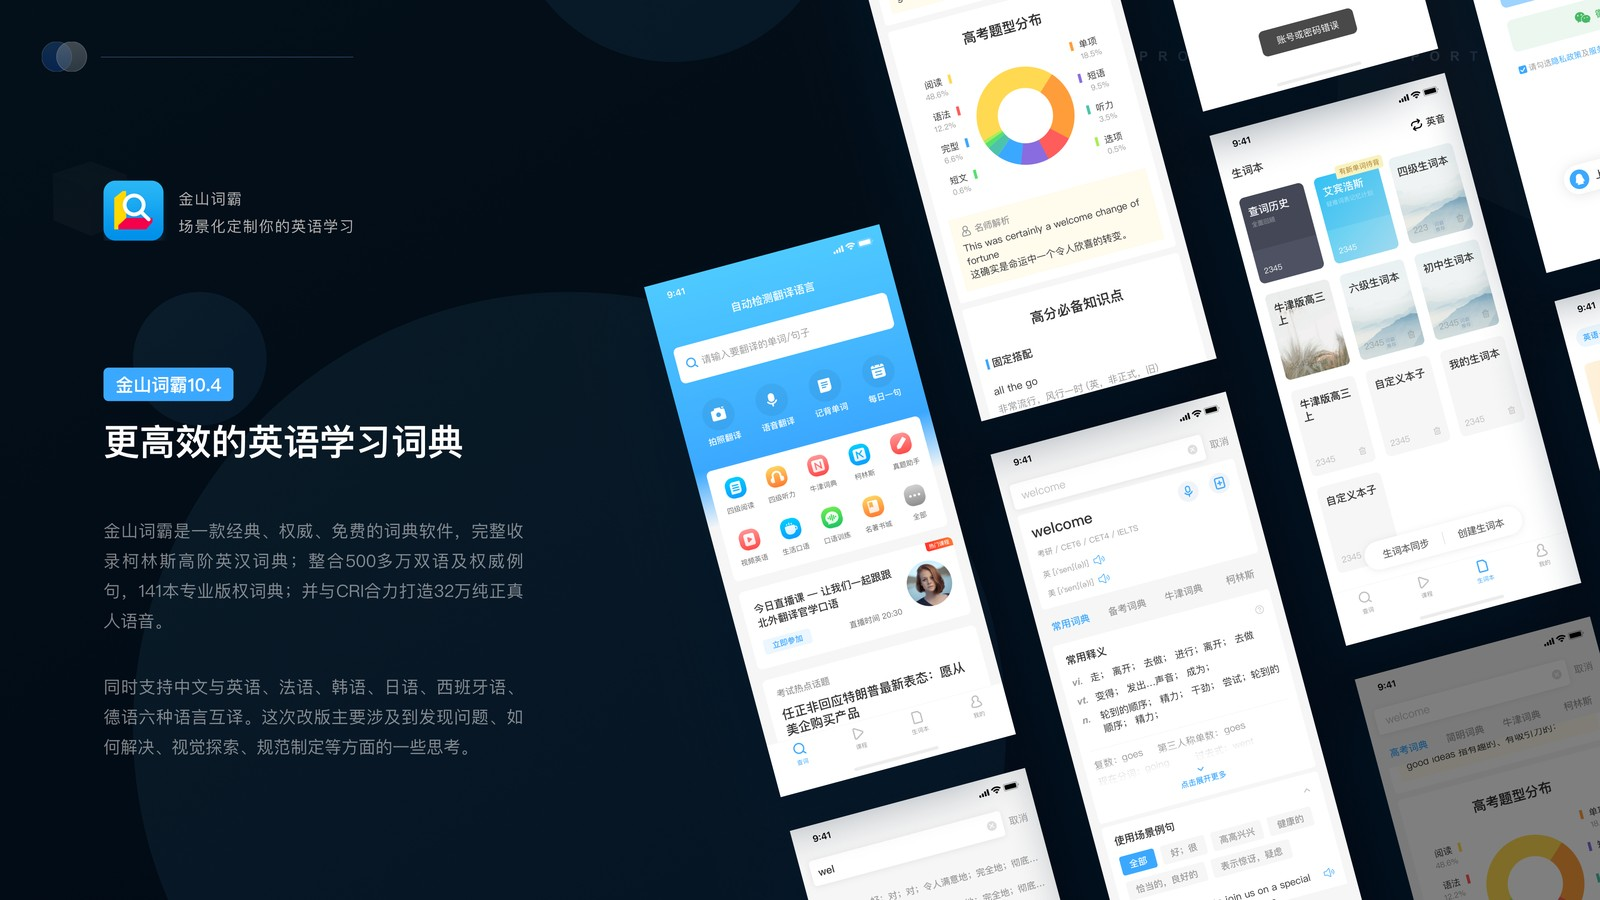
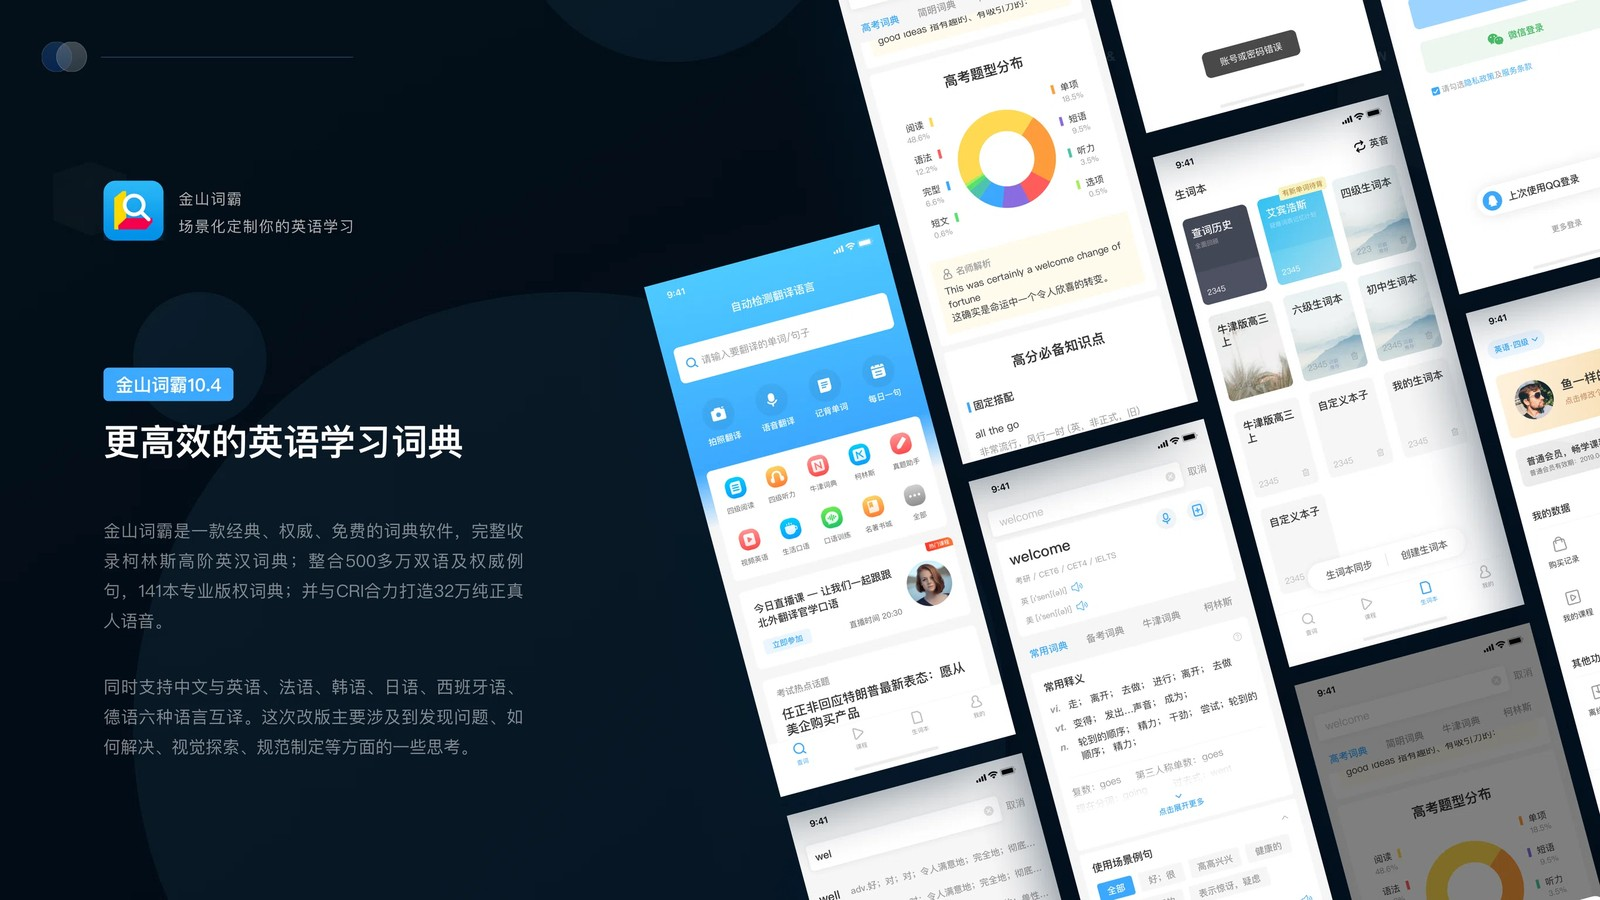
替换金山词霸封面为最新设计稿
- 使用本轮提供的金山封面（2730×1536 WEBP），转 1600×900 JPEG q90
  覆盖 assets/thumbs/mobile.jpg
- 项目内页与其他封面不变；封面仍与第 1 页解耦
- AGENTS.md §3.2 同步来源说明

验证：金山项目页 1440×900 截图检查新封面裁切正常；无 JS 报错。

Changed region(s): [[0.4688, 0.0, 1.0, 1.0]]

diff --git a/AGENTS.md b/AGENTS.md
@@ -44,7 +44,7 @@
 ### 3.2 卡片封面（首页小卡 + 项目页大卡共用一张）
 
 - 字节跳动四个项目使用独立封面图：`assets/thumbs/douyin-*.jpg`（来源 `2026 作品材料/作品封面` 的四张 3840×2160 设计稿，统一压成 1600×900 JPEG）；封面不跟随第 1 页变化。
-- JD 沿用原封面 `jd.jpg`；金山词霸使用 `2026 作品材料/作品封面/金山办公.png` 压缩的 `mobile.jpg`（1600×900）。
+- JD 沿用原封面 `jd.jpg`；金山词霸使用最新金山设计稿压缩的 `mobile.jpg`（1600×900，设计稿随 `2026 作品材料/作品封面` 更新）。
 - 卡片呈现与京东零售封面一致：`object-fit: cover` 居中裁切；首页卡与项目页卡比例差异较大（0.25–1.43），保证封面中心内容落在裁切安全区。
 - 换封面时替换对应 `assets/thumbs/*.jpg` 即可；作品内页顺序与封面相互独立。
 - **卡片文字层**：顶部是项目名（Impact）+ 页数/类型（`32 PAGES · EXPLORE` 或「项目资料整理中」），底部是序号 `01` + 类型（`PLATFORM · WEB`）；遮罩为「顶部强渐变 + 底部弱渐变」两层，hover 时整层透明度 .76 → .38；`PENDING` 角标位于项目名块下方 52px。
